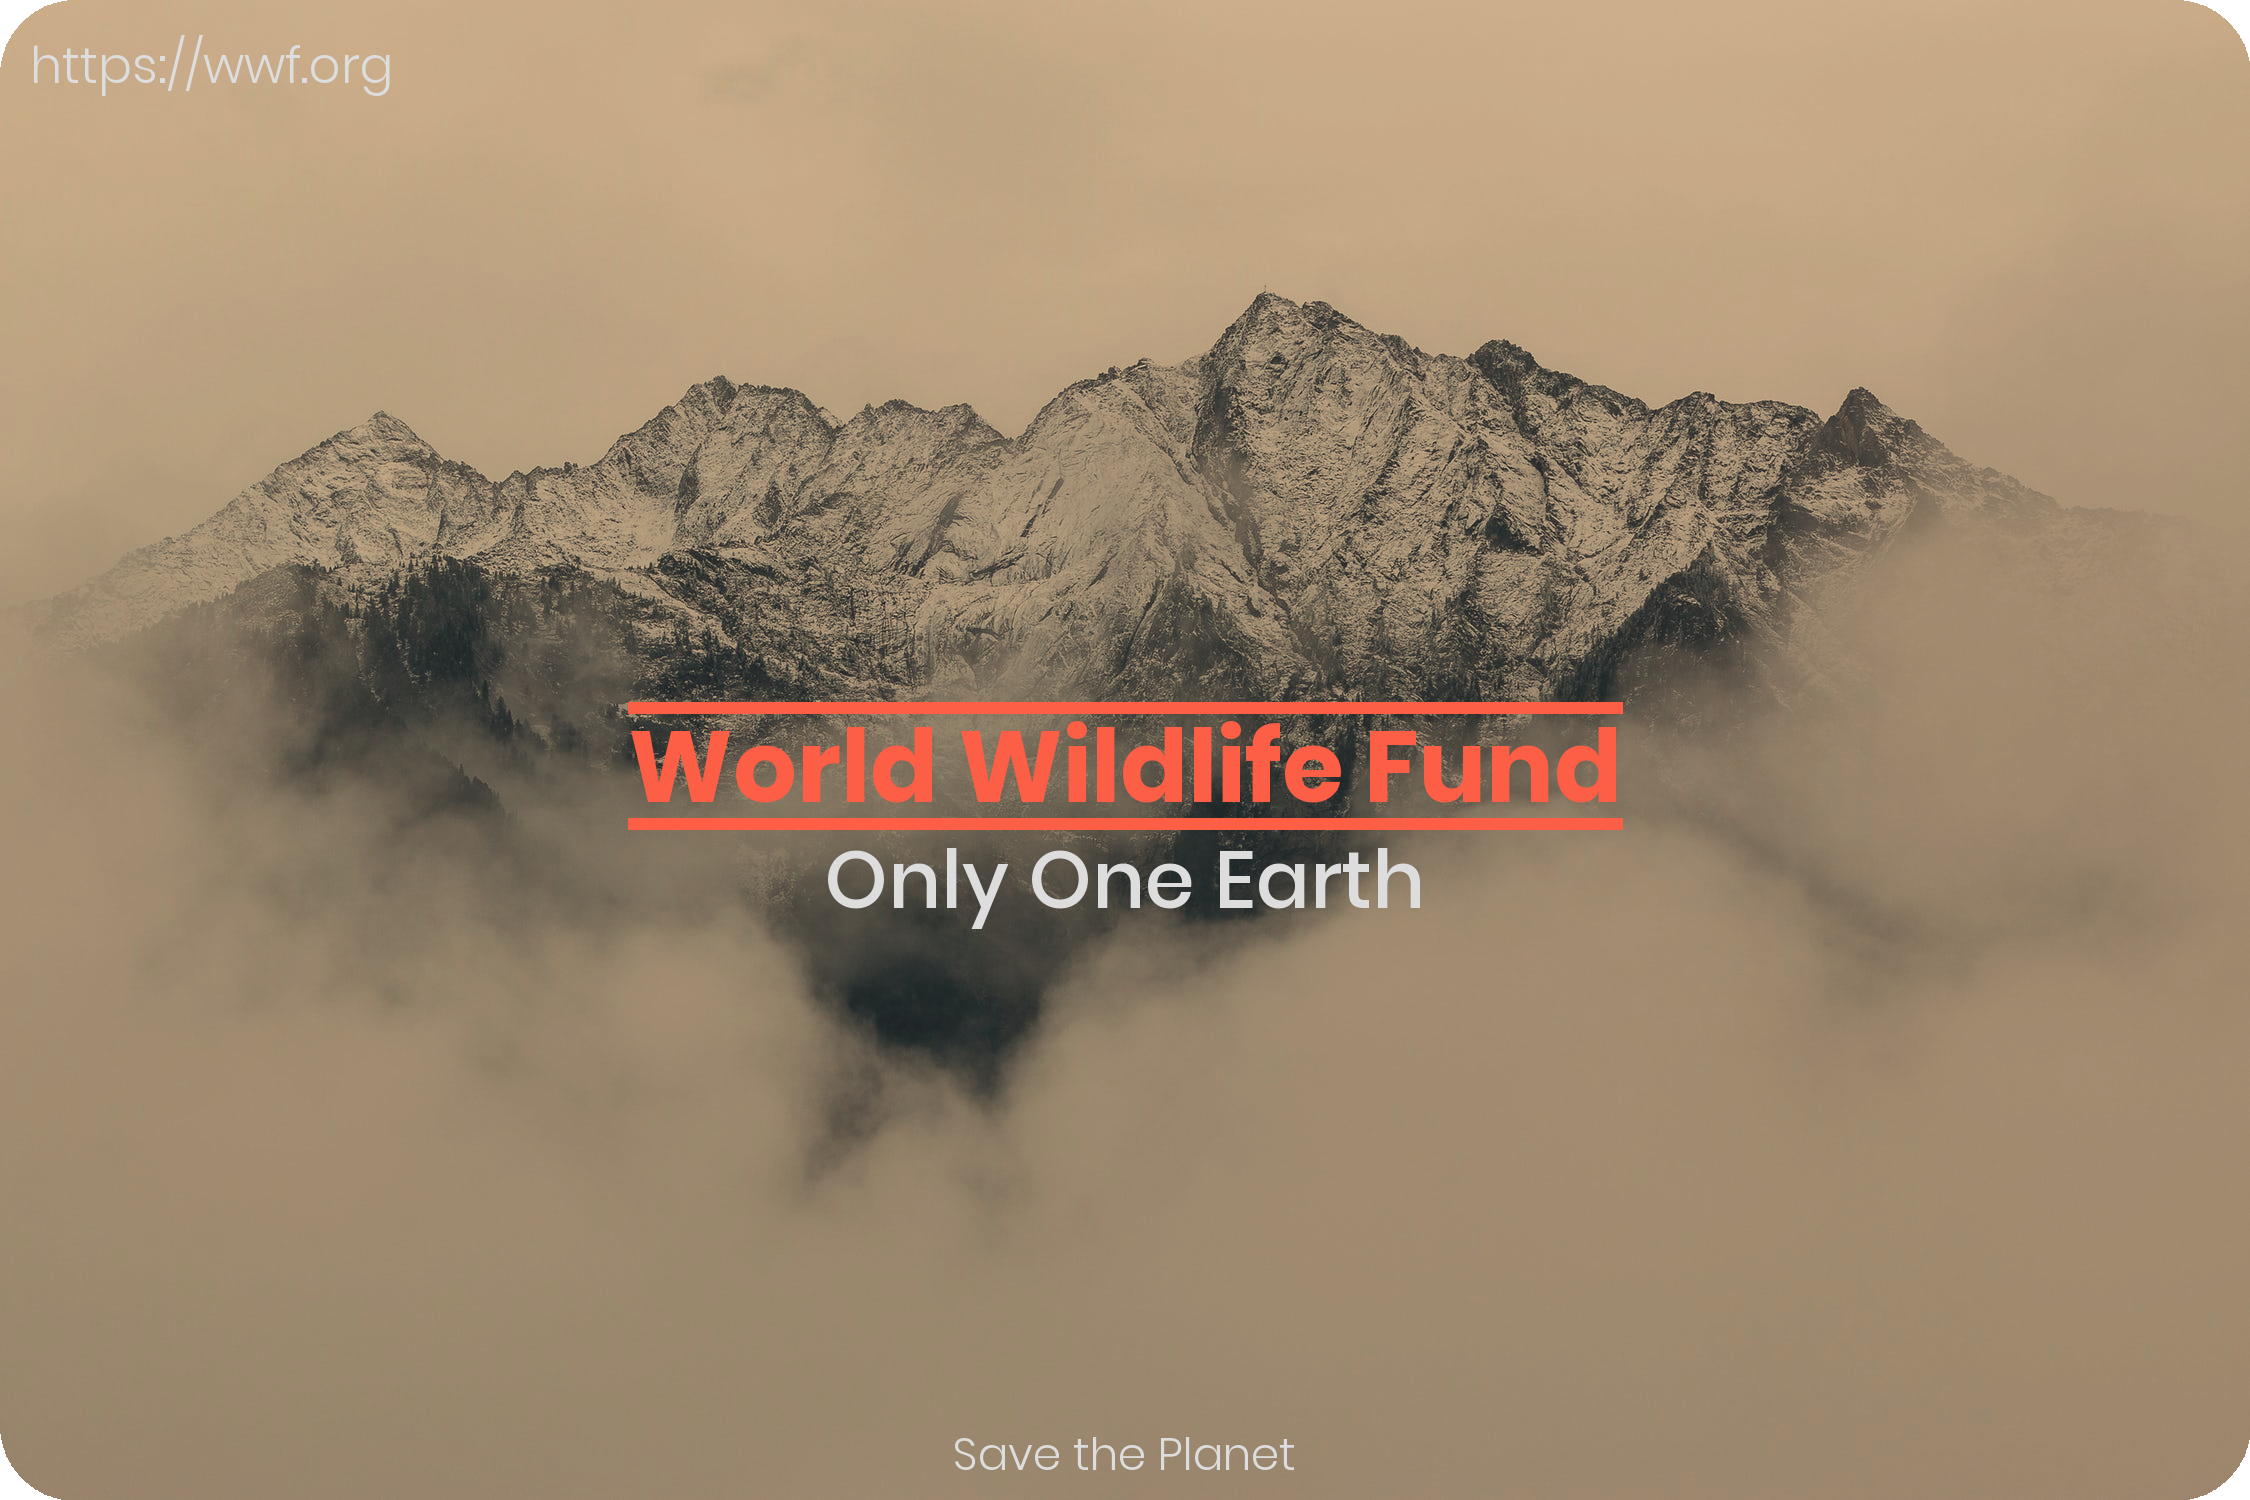
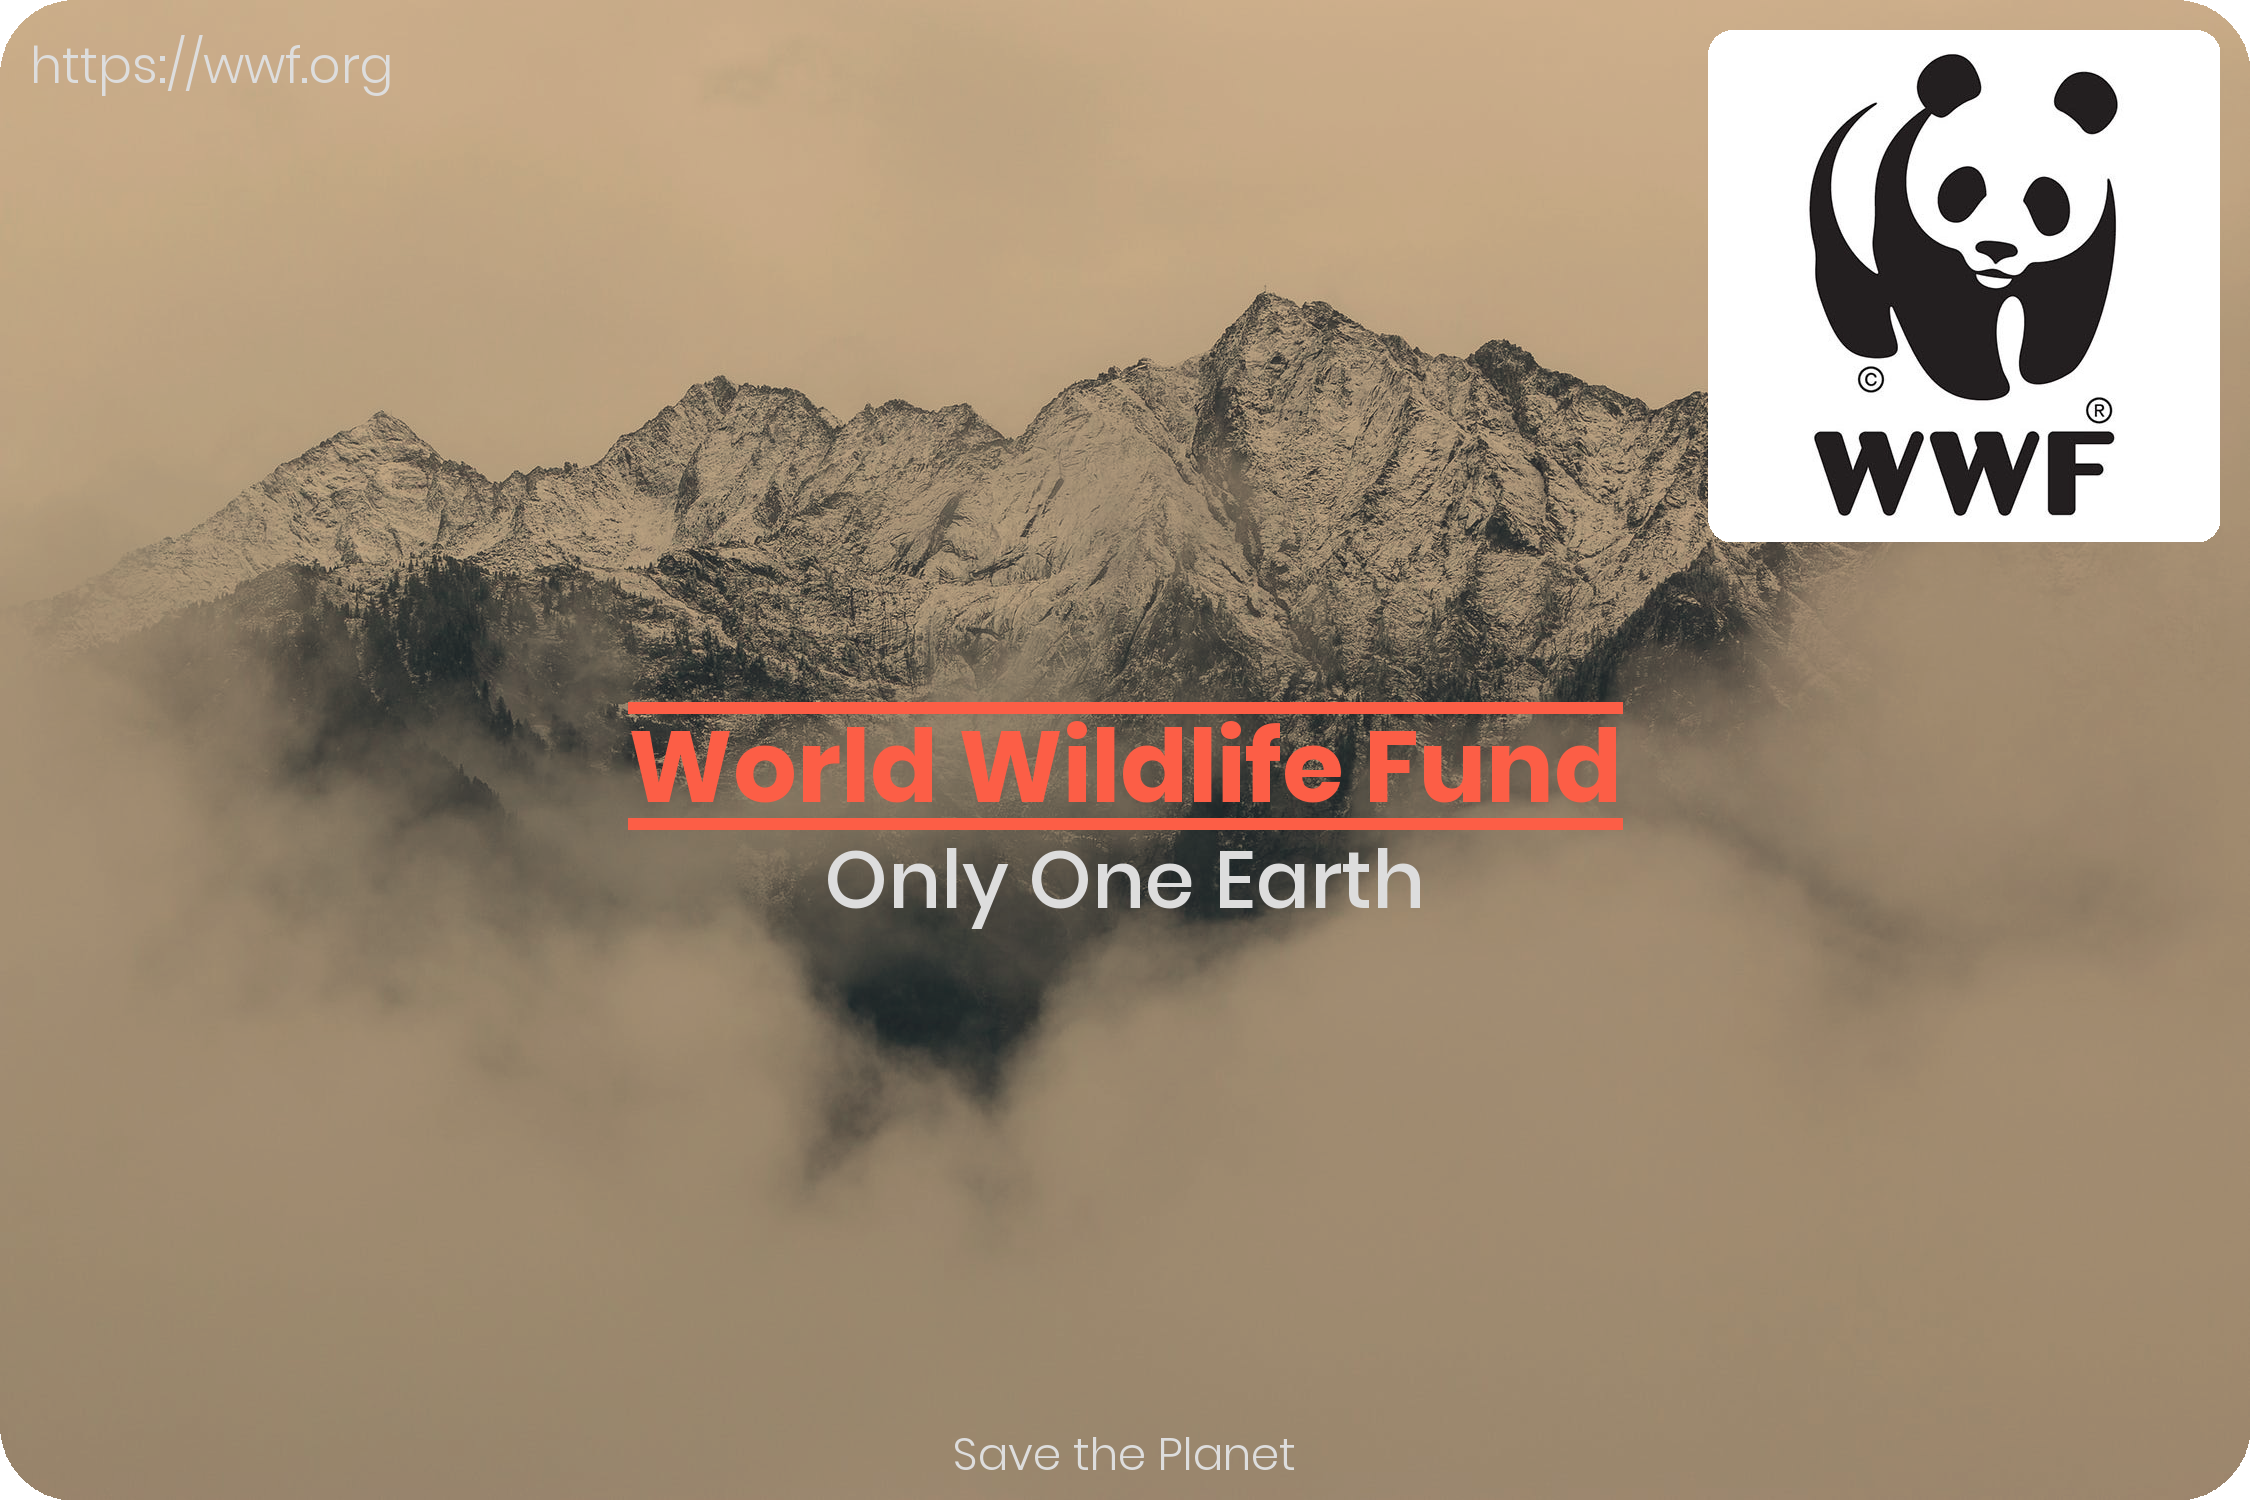
image pasting now works

Changed region(s): [[0.7467, 0.0, 0.9956, 0.368]]

diff --git a/main.py b/main.py
@@ -23,14 +23,19 @@ Positioning
 		- BOTTOM_LEFT
 		- BOTTOM_CENTER
 		- BOTTOM_RIGHT
-	As of right now, you are not allowed to choose coordinates.
 
 	Usage: Position.<option>
 	Example: Position.TOP_RIGHT
 
+	It should be noted that when adding multiple pieces of text aligned to CENTER,
+	only the first item will be centered in the image on the y axis, not the entire
+	group of texts combined.
+
+	You are also allowed to choose your own coordinates instead of these preconfigured ones
+
 Text API
 --------
-This program has an incredibly powerful and customizable text generation API.
+This is an incredibly powerful and customizable text API
 
 	Font Styles:
 		- REGULAR
@@ -71,10 +76,6 @@ This program has an incredibly powerful and customizable text generation API.
 		- NONE
 		- UNDERLINE
 		- BOX
-
-	It should be noted that when adding multiple pieces of text aligned to CENTER,
-	only the first item will be centered in the image on the y axis, not the entire
-	group of texts combined
 
 	Adding text one at a time:
 	--------------------------
@@ -509,6 +510,7 @@ def addImage(path, maskPath, size, position=Position.CENTER):
 	targetY = 0
 
 	splitPath = str.split(path, "/")
+	print(splitPath[len(splitPath) - 1])
 
 	img = Image.open(path).convert("RGBA")
 	mask = Image.open(maskPath).convert("RGBA")
@@ -516,11 +518,12 @@ def addImage(path, maskPath, size, position=Position.CENTER):
 	imageWidth, imageHeight = img.size
 	maskWidth, maskHeight = mask.size
 
+	
 	sizeTuple = ()
 
 	if type(size) == tuple:
 		sizeTuple = size
-	elif type(size) == float:
+	elif type(size) == float or type(size) == int:
 		sizeTuple = (int(maskWidth * size), int(maskHeight * size))
 	elif type(size) == ImageSize:
 		sizeTuple = (int(maskWidth * imageReductionFactor[size.value]), int(maskHeight * imageReductionFactor[size.value]))
@@ -528,68 +531,69 @@ def addImage(path, maskPath, size, position=Position.CENTER):
 	mask = mask.resize(sizeTuple, Image.ANTIALIAS)
 
 	maskWidth, maskHeight = mask.size # update the values with the new size
-
+	
 	# support for custom positioning
 	if type(position) == tuple:
 		img.paste(mask, position)
-	elif position == Position:
+	elif type(position) == Position:
 		if position == Position.TOP_LEFT:
 			targetX = 30
 			targetY = 30
 
 			offset = (int(targetX), int(targetY))
 
-			img.paste(mask, offset)
+			img.paste(mask, offset, mask=mask)
 		elif position == Position.TOP_CENTER:
 			targetX = (imageWidth / 2) - (maskWidth / 2)
 			targetY = 30
 
 			offset = (int(targetX), int(targetY))
 
-			img.paste(mask, offset)
+			img.paste(mask, offset, mask=mask)
 		elif position == Position.TOP_RIGHT:
 			targetX = imageWidth - maskWidth - 30
 			targetY = 30
 
 			offset = (int(targetX), int(targetY))
 
-			img.paste(mask, offset)
+			img.paste(mask, offset, mask=mask)
 		elif position == Position.CENTER:
 			targetX = (imageWidth / 2) - (maskWidth / 2)
 			targetY = (imageHeight / 2) - (maskHeight / 2)
 
 			offset = (int(targetX), int(targetY))
 
-			img.paste(mask, offset)
+			img.paste(mask, offset, mask=mask)
 		elif position == Position.BOTTOM_RIGHT:
 			targetX = 30
 			targetY = maskHeight + 30
 
 			offset = (int(targetX), int(targetY))
 
-			img.paste(mask, offset)
+			img.paste(mask, offset, mask=mask)
 		elif position == Position.BOTTOM_CENTER:
 			targetX = (imageWidth / 2) - (maskWidth / 2)
 			targetY = maskHeight + 30
 
 			offset = (int(targetX), int(targetY))
 
-			img.paste(mask, offset)
+			img.paste(mask, offset, mask=mask)
 		elif position == Position.BOTTOM_RIGHT:
 			targetX = imageWidth - maskWidth - 30
 			targetY = maskHeight + 30
 
 			offset = (int(targetX), int(targetY))
 
-			img.paste(mask, offset)
+			img.paste(mask, offset, mask=mask)
 
 	filename = str.split(splitPath[len(splitPath) - 1], ".")
 	newPath = "./modified/" + filename[0] + ".png"
+	print(newPath)
 	img.save(newPath)
 
 """
 This is the code used to generate the final images.
-It's really simple.
+The API makes it really simple
 """
 
 round_corners_of_all_images(directory=None)
@@ -598,14 +602,15 @@ tintImage("./modified", (230, 190, 138, 225))
 # we dont want the wwf logo to be tinted
 round_corners_of_all_images(directory="./assets")
 
-# create new text ob
+# first you create text objects
 title = Text("World Wildlife Fund", Font.BOLD, Color.LIGHTRED, 100, Decoration.BOX)
 subtitle = Text("Only One Earth", Font.MEDIUM, Color.WHITE, 80, Decoration.NONE)
 header = Text("https://wwf.org", Font.LIGHT, Color.WHITE, 50, Decoration.NONE)
 footer = Text("Save the Planet", Font.LIGHT, Color.WHITE, 45, Decoration.NONE)
 
+# then you add them to different positions on the image
 addText("./modified/mountain.png", [title, subtitle], Position.CENTER)
 addText("./modified/mountain.png", header, Position.TOP_LEFT)
 addText("./modified/mountain.png", footer, Position.BOTTOM_CENTER)
 
-addImage("./modified/mountain.png", "./modified/wwf.png", 0.2, Position.TOP_RIGHT)
+addImage("./modified/mountain.png", "./modified/wwf.png", 1.0, Position.TOP_RIGHT)
